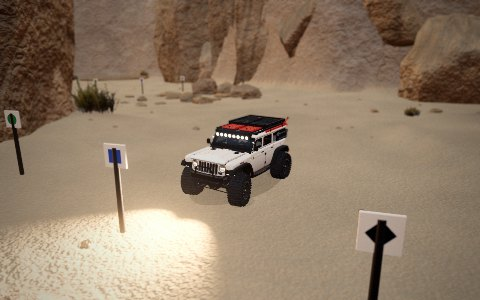
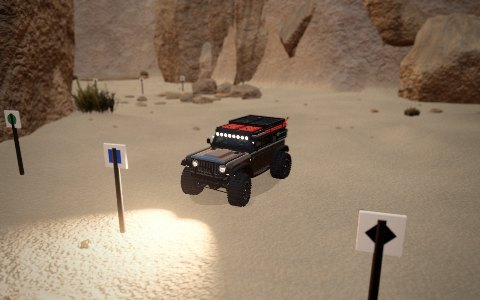
RC Crawler: red Bronco, black Axial SCX30 Wrangler
Driving alone, each vehicle now wears its own colour: the Bronco red, the
Axial SCX30 Wrangler gloss black (the Land Cruiser keeps its scanned paint).
In a multiplayer room each player's livery colour still applies, and leaving
the room returns to the vehicle's own colour. Terrain cards re-captured with
the black Wrangler.

Changed region(s): [[0.375, 0.42, 0.5938, 0.6], [0.8438, 0.36, 0.875, 0.39]]

diff --git a/public/rc-crawler/src/main.js b/public/rc-crawler/src/main.js
@@ -24,7 +24,7 @@ import { Voice } from './net/voice.js';
 import { MpUI } from './ui/mpUI.js';
 import { Landscape } from './ui/landscape.js';
 import { Minimap } from './ui/minimap.js';
-import { VEHICLES, VEHICLE_IDS, mountBody } from './vehicles/bodies.js';
+import { VEHICLES, VEHICLE_IDS, mountBody, vehicleColor } from './vehicles/bodies.js';
 import { LIVERIES, liveryCss } from './net/config.js';
 
 // ------------------------------------------------------------ settings
@@ -87,6 +87,7 @@ addEventListener('resize', () => {
 // ------------------------------------------------------------ vehicle
 if (!VEHICLE_IDS.includes(settings.vehicle)) settings.vehicle = 'scx30';
 let model = createCrawler({ quality: settings.quality });
+model.setBodyColor(vehicleColor(settings.vehicle));
 mountBody(model, settings.vehicle);
 scene.add(model.group);
 let lightsOn = true;
@@ -294,6 +295,7 @@ ui.on('vehicle', (id) => {
   if (!VEHICLE_IDS.includes(id)) return;
   settings.vehicle = id; saveSettings();
   ui.setVehicle(id);
+  applyLivery();
   mountBody(model, id);
   mp.saveProfile({ vehicle: id });
 });
@@ -634,7 +636,8 @@ mp.on('left', () => { modes.teardown(); voice.leave(); myLivery = null; applyLiv
 // In a room, this truck wears the livery the player picked, exactly as everyone else sees it; white again solo.
 // (The last livery is kept through a reconnect, so the paint doesn't flash white.)
 let myLivery = null;
-function applyLivery() { model.setBodyColor((LIVERIES[myLivery ?? 0] || LIVERIES[0])[1]); }
+// alone: the vehicle's own colour (red Bronco, black Wrangler); in a room: the player's livery
+function applyLivery() { model.setBodyColor(myLivery == null ? vehicleColor(settings.vehicle) : (LIVERIES[myLivery] || LIVERIES[0])[1]); }
 mp.on('change', () => { const c = mp.me?.color; if (c !== undefined && c !== myLivery) { myLivery = c; applyLivery(); } });
 
 // ------------------------------------------------------------ boot

diff --git a/public/rc-crawler/src/vehicles/bodies.js b/public/rc-crawler/src/vehicles/bodies.js
@@ -11,9 +11,9 @@ import { MeshoptDecoder } from 'three/addons/libs/meshopt_decoder.module.js';
 import { CRAWLER_DIMS } from './crawlerModel.js';
 
 export const VEHICLES = [
-  { id: 'scx30', name: 'SCX30 Jeep Wrangler JLU', short: 'WRANGLER' },
+  { id: 'scx30', name: 'SCX30 Jeep Wrangler JLU', short: 'WRANGLER', color: 0x141518 },   // gloss black
   {
-    id: 'bronco', name: '2022 Ford Bronco', short: 'BRONCO', file: 'assets/vehicles/bronco.glb', paint: /Pintura/i, lamps: /Refletor_Farol/i, exact: true,   // as modelled
+    id: 'bronco', name: '2022 Ford Bronco', short: 'BRONCO', color: 0xa8141c, file: 'assets/vehicles/bronco.glb', paint: /Pintura/i, lamps: /Refletor_Farol/i, exact: true,   // as modelled
     wheels: { front: 1.611, rear: -1.264, y: 0.425, x: 0.84, r: 0.425 },
     credit: { title: '2022 Ford Bronco', author: 'tonielpro520', changes: 'its wheels moved onto the RC hubs, tyres and alloys in black', url: 'https://sketchfab.com/3d-models/2022-ford-bronco-9eda0b20a8454f7b936ac2a393d82e8f', license: 'CC BY 4.0', licenseUrl: 'https://creativecommons.org/licenses/by/4.0/' },
   },
@@ -25,6 +25,9 @@ export const VEHICLES = [
 ];
 export const VEHICLE_IDS = VEHICLES.map((v) => v.id);
 export const vehicleById = (id) => VEHICLES.find((v) => v.id === id) || VEHICLES[0];
+// a body's own colour when driving alone (in multiplayer each player's livery colour is used instead); a body
+// without one (the photo-scanned Land Cruiser) keeps the default
+export const vehicleColor = (id) => vehicleById(id).color ?? 0xf1f1ee;
 
 // RC chassis reference: axles at +-wheelBase/2, hubs at hubRestY, tyres of wheelRadius
 const WB = CRAWLER_DIMS.wheelBase, HUB_Y = CRAWLER_DIMS.hubRestY, TYRE_R = CRAWLER_DIMS.wheelRadius, HALF_TRACK = CRAWLER_DIMS.track / 2;
